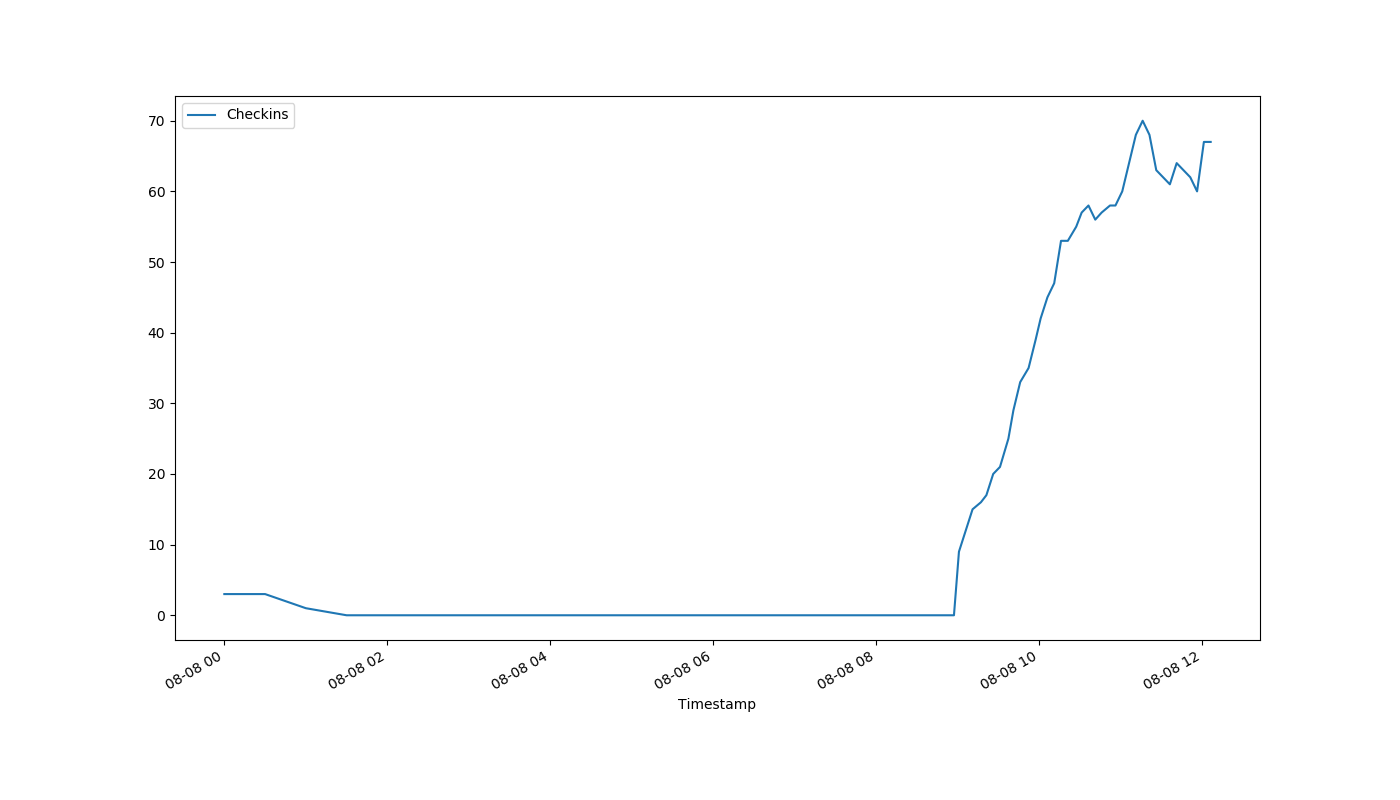
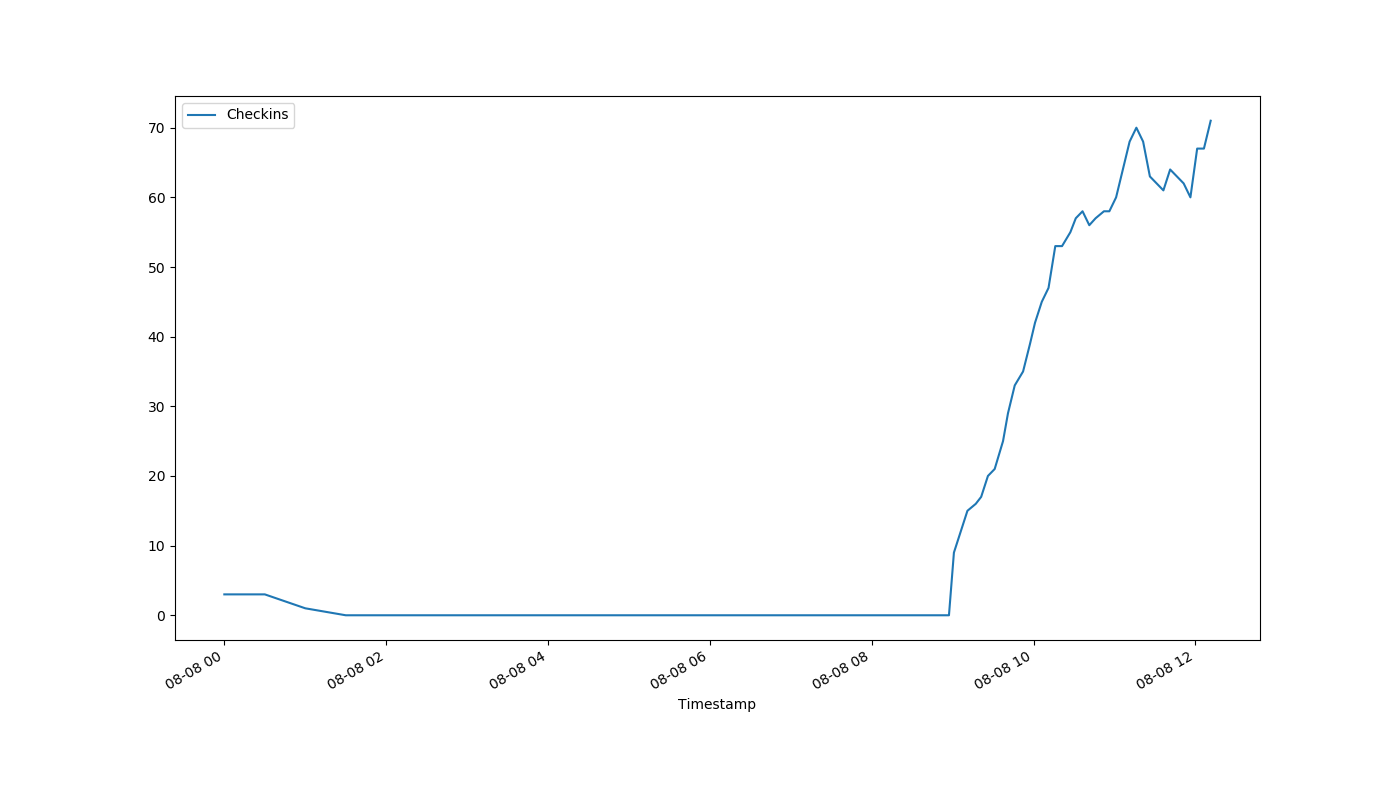
auto-Aug-08-12:13:25

diff --git a/index.html b/index.html
@@ -1,1 +1,1 @@
-<!DOCTYPE html><html><head><meta http-equiv="refresh" content="30"><link rel='stylesheet' href='holmcurrent.css'></head><body><p id='count'>67</p><div id='graph-wrap'><img id='graph' src='holmgraph-Aug-08.png'></div><p id='updated'>Last updated 12:07:11 / 12:06:16</p></body></html>
+<!DOCTYPE html><html><head><meta http-equiv="refresh" content="30"><link rel='stylesheet' href='holmcurrent.css'></head><body><p id='count'>71</p><div id='graph-wrap'><img id='graph' src='holmgraph-Aug-08.png'></div><p id='updated'>Last updated 12:12:11 / 12:11:16</p></body></html>
